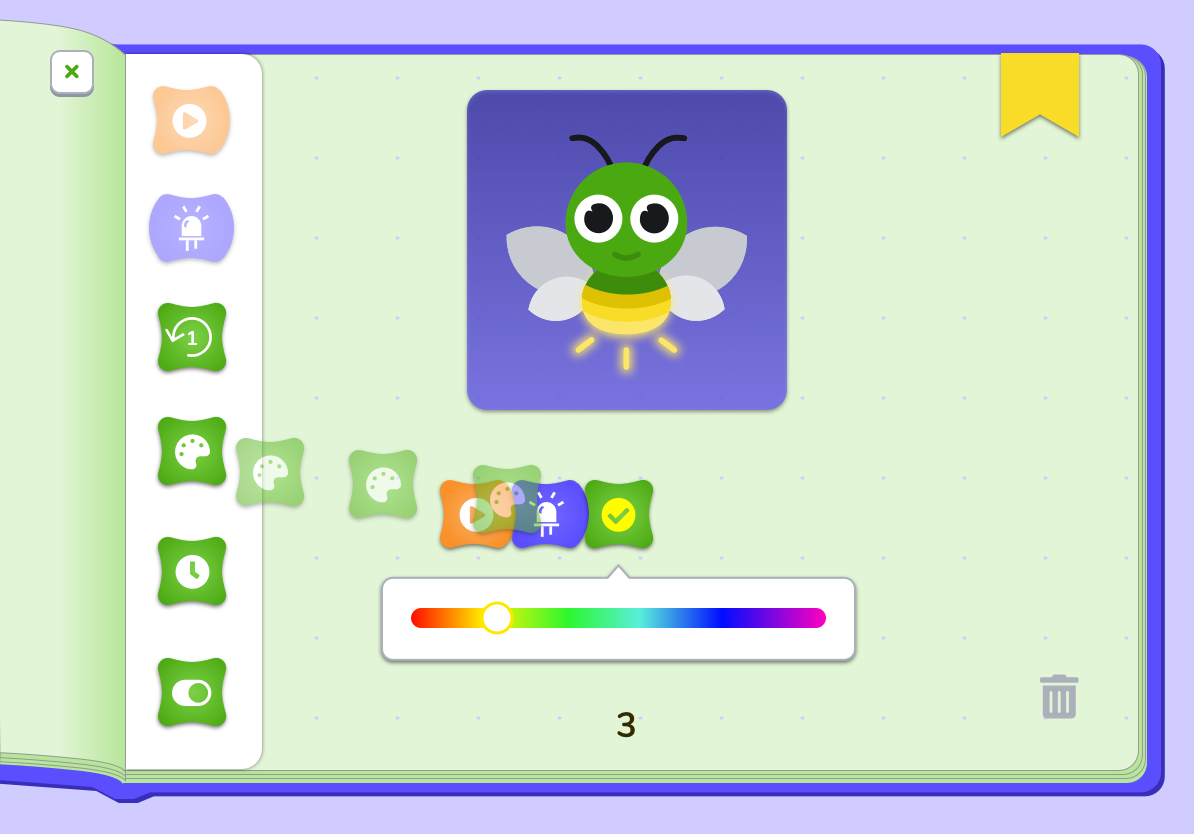
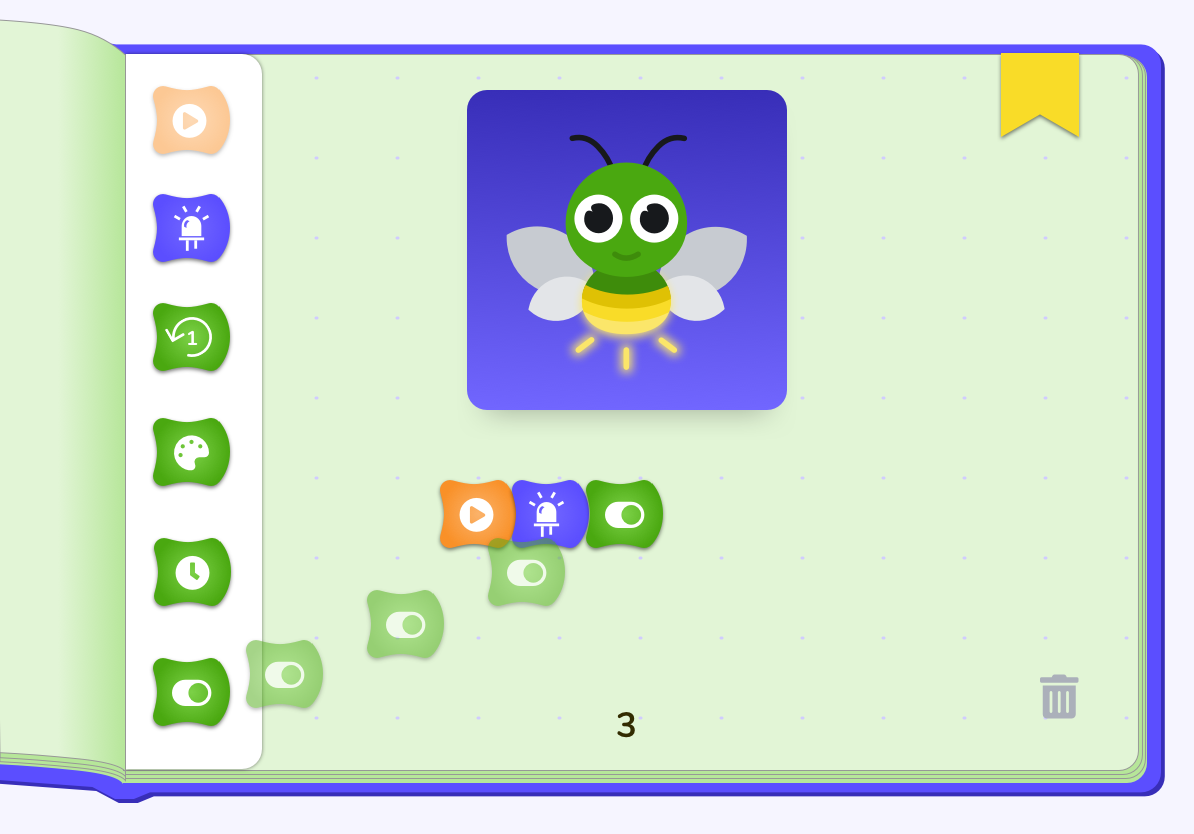
set up next tutorial screen images

diff --git a/firefly/src/views/DevMenu.js b/firefly/src/views/DevMenu.js
@@ -27,6 +27,7 @@ import StartGame from "../components/StartPages/LoggedInStartPage";
 import CodeView from "../components/part2/CodeView";
 import ChooseWorld from "../components/Worlds/ChooseWorld/ChooseWorld";
 import FireflyWorld from "../components/Worlds/FireflyWorld/FireflyWorld";
+import Tutorial from "../components/tutorial/MultiStep";
 
 import BackendTester from "../components/backendTester/BackendTester";
 
@@ -53,92 +54,97 @@ export default function DevMenu(props) {
           <Menu />
         </div>
       ) : null}
-        <Switch>
-          <Route exact path="/loader" component={Loader} />
-          <PublicRoute
-            logged={props.logged}
-            exact
-            path="/"
-            component={LoggedOutStartPage}
-          />
-          <PublicRoute
-            logged={props.logged}
-            path="/signup"
-            component={SignUpPage}
-          />
-          <PublicRoute
-            logged={props.logged}
-            path="/signin"
-            component={SignInPage}
-          />
-          <PrivateRoute
-            logged={props.logged}
-            path="/myfirefly"
-            component={MyFireflyPage}
-          />
-          <PrivateRoute
-            logged={props.logged}
-            path="/customize"
-            component={CustomizeFireflyPage}
-          />
-          <PrivateRoute
-            logged={props.logged}
-            path="/registration"
-            component={MultiStepRegistration}
-          />
-          <PrivateRoute
-            logged={props.logged}
-            exact
-            path="/choose-profile"
-            component={ChooseProfilePage}
-          />
-          <PrivateRoute
-            logged={props.logged}
-            exact
-            path="/account"
-            component={MyAccountPage}
-          />
-          <PrivateRoute
-            logged={props.logged}
-            exact
-            path="/editprofile"
-            component={EditProfilePage}
-          />
-          <PrivateRoute
-            logged={props.logged}
-            exact
-            path="/addprofile"
-            component={AddANewProfilePage}
-          />
-          <PrivateRoute
-            logged={props.logged}
-            path="/startgame"
-            component={StartGame}
-          />
-          <Route logged={props.logged} path="/codeview" component={CodeView} />
-          <Route
-            logged={props.logged}
-            path="/animations"
-            component={AnimationTest}
-          />
-          <Route logged={props.logged} path="/game" component={Game} />
-          <PrivateRoute
-            logged={props.logged}
-            exact
-            path="/backend-tester"
-            component={BackendTester}
-          />
-          <PrivateRoute
-            logged={props.logged}
-            path="/chooseworld"
-            component={ChooseWorld}
-          />
-          <PrivateRoute
-            logged={props.logged}
-            path="/fireflyworld"
-            component={FireflyWorld}
-          />
-        </Switch>
+      <Switch>
+        <Route exact path="/loader" component={Loader} />
+        <PublicRoute
+          logged={props.logged}
+          exact
+          path="/"
+          component={LoggedOutStartPage}
+        />
+        <PublicRoute
+          logged={props.logged}
+          path="/signup"
+          component={SignUpPage}
+        />
+        <PublicRoute
+          logged={props.logged}
+          path="/signin"
+          component={SignInPage}
+        />
+        <PrivateRoute
+          logged={props.logged}
+          path="/myfirefly"
+          component={MyFireflyPage}
+        />
+        <PrivateRoute
+          logged={props.logged}
+          path="/customize"
+          component={CustomizeFireflyPage}
+        />
+        <PrivateRoute
+          logged={props.logged}
+          path="/registration"
+          component={MultiStepRegistration}
+        />
+        <PrivateRoute
+          logged={props.logged}
+          exact
+          path="/choose-profile"
+          component={ChooseProfilePage}
+        />
+        <PrivateRoute
+          logged={props.logged}
+          exact
+          path="/account"
+          component={MyAccountPage}
+        />
+        <PrivateRoute
+          logged={props.logged}
+          exact
+          path="/editprofile"
+          component={EditProfilePage}
+        />
+        <PrivateRoute
+          logged={props.logged}
+          exact
+          path="/addprofile"
+          component={AddANewProfilePage}
+        />
+        <PrivateRoute
+          logged={props.logged}
+          path="/startgame"
+          component={StartGame}
+        />
+        <Route logged={props.logged} path="/codeview" component={CodeView} />
+        <Route
+          logged={props.logged}
+          path="/animations"
+          component={AnimationTest}
+        />
+        <Route logged={props.logged} path="/game" component={Game} />
+        <PrivateRoute
+          logged={props.logged}
+          exact
+          path="/backend-tester"
+          component={BackendTester}
+        />
+        <PrivateRoute
+          logged={props.logged}
+          path="/chooseworld"
+          component={ChooseWorld}
+        />
+        <PrivateRoute
+          logged={props.logged}
+          path="/fireflyworld"
+          component={FireflyWorld}
+        />
+        <PrivateRoute
+          logged={props.logged}
+          path="/tutorial"
+          component={Tutorial}
+        />
+      </Switch>
     </div>
   );
 }

diff --git a/firefly/src/components/tutorial/MultiStep.js b/firefly/src/components/tutorial/MultiStep.js
@@ -1,0 +1,157 @@
+import React, { useState } from "react";
+
+import { makeStyles } from "@material-ui/core/styles";
+
+import screen1 from "../../assets/images/screen1.png";
+import screen2 from "../../assets/images/screen2.png";
+import screen3 from "../../assets/images/screen3.png";
+import screen4 from "../../assets/images/screen4.png";
+import screen5 from "../../assets/images/screen5.png";
+import screen6 from "../../assets/images/screen6.png";
+import screen7 from "../../assets/images/screen7.png";
+
+import leftarrow from "../../assets/images/BlueLeftArrow.svg";
+import rightarrow from "../../assets/images/BlueRightArrow.svg";
+
+const MultiStepTutorial = () => {
+  const classes = makeStyles(theme => ({
+    app: {},
+    root: {
+      height: "100vh",
+      display: "flex",
+      flexDirection: "column",
+      alignItems: "center",
+      justifyContent: "center",
+      backgroundColor: "#D0CCFF"
+    },
+    image: {
+      width: "100vw"
+    },
+    wrapper: {
+      height: "100%",
+      display: "flex",
+      alignItems: "center",
+      justifyContent: "center"
+    },
+    arrowcontainer: {
+      position: "fixed",
+      bottom: "11%",
+      display: "flex",
+      justifyContent: "space-between",
+      width: "100px",
+      marginLeft: "31px"
+    },
+    disabled: {
+      opacity: "0.5"
+    }
+  }))();
+
+  const [step, setStep] = useState(0);
+
+  switch (step) {
+    default:
+      return (
+        <div className={classes.root}>
+          <div className={classes.wrapper}>
+            <div className={classes.arrowcontainer}>
+              <img src={leftarrow} className={classes.disabled} />
+              <img src={rightarrow} onClick={() => setStep(step + 1)} />
+            </div>
+            <img className={classes.image} src={screen1} />
+          </div>
+        </div>
+      );
+    case 1:
+      return (
+        <div className={classes.root}>
+          <div className={classes.wrapper}>
+            <div className={classes.arrowcontainer}>
+              <img src={leftarrow} onClick={() => setStep(step - 1)} />
+              <img src={rightarrow} onClick={() => setStep(step + 1)} />
+            </div>
+            <img
+              className={classes.image}
+              src={screen2}
+            />
+          </div>
+        </div>
+      );
+    case 2:
+      return (
+        <div className={classes.root}>
+          <div className={classes.wrapper}>
+            <div className={classes.arrowcontainer}>
+              <img src={leftarrow} onClick={() => setStep(step - 1)} />
+              <img src={rightarrow} onClick={() => setStep(step + 1)} />
+            </div>
+            <img
+              className={classes.image}
+              src={screen3}
+            />
+          </div>
+        </div>
+      );
+    case 3:
+      return (
+        <div className={classes.root}>
+          <div className={classes.wrapper}>
+            <div className={classes.arrowcontainer}>
+              <img src={leftarrow} onClick={() => setStep(step - 1)} />
+              <img src={rightarrow} onClick={() => setStep(step + 1)} />
+            </div>
+            <img
+              className={classes.image}
+              src={screen4}
+            />
+          </div>
+        </div>
+      );
+    case 4:
+      return (
+        <div className={classes.root}>
+          <div className={classes.wrapper}>
+            <div className={classes.arrowcontainer}>
+              <img src={leftarrow} onClick={() => setStep(step - 1)} />
+              <img src={rightarrow} onClick={() => setStep(step + 1)}/>
+            </div>
+            <img
+              className={classes.image}
+              src={screen5}
+            />
+          </div>
+        </div>
+      );
+      case 5:
+      return (
+        <div className={classes.root}>
+          <div className={classes.wrapper}>
+            <div className={classes.arrowcontainer}>
+              <img src={leftarrow} onClick={() => setStep(step - 1)} />
+              <img src={rightarrow} onClick={() => setStep(step + 1)}/>
+            </div>
+            <img
+              className={classes.image}
+              src={screen6}
+            />
+          </div>
+        </div>
+      );
+      case 6:
+        return (
+          <div className={classes.root}>
+            <div className={classes.wrapper}>
+              <div className={classes.arrowcontainer}>
+                <img src={leftarrow} onClick={() => setStep(step - 1)} />
+                <img src={rightarrow} className={classes.disabled}/>
+              </div>
+              <img
+                className={classes.image}
+                src={screen7}
+              />
+            </div>
+          </div>
+        );
+  }
+};
+
+export default MultiStepTutorial;
